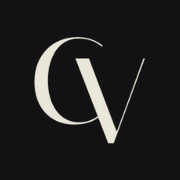
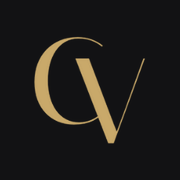
Poe a marca em dourado, com um ouro mais fundo no cabecalho claro
A logo passa a ser dourada no cabeçalho, no rodapé e nos ícones, no lugar do
creme e da tinta escura.

Sobre o fundo escuro vai o ouro da própria marca, `--ouro` #C9A96A, que dá
8,35:1 de contraste — bem acima do mínimo.

Sobre o cabeçalho claro esse mesmo ouro dá 2,15:1 e a marca praticamente
desaparece. Ali entra um ouro mais fundo, #7A5D24, que mantém o matiz e sobe
para 5,88:1. Continua lendo como ouro, não como marrom.

Os ícones (512, 180 e 32px) foram refeitos com o monograma em ouro sobre o
grafite.

Verificado: as três instâncias carregando, o cruzamento entre os dois estados
do cabeçalho, contraste AA aprovado, sem rolagem horizontal de 360 a 1440,
nenhuma imagem quebrada, nada invisível em 3G com CPU 6x mais lenta, sem erros
de JavaScript.

Claude-Session: https://claude.ai/code/session_01ErA6uQs8LKc9Lqw5HZYEAA

diff --git a/site/index.html b/site/index.html
@@ -61,11 +61,14 @@
     <!-- Duas versões da mesma marca: o cabeçalho começa transparente sobre o
          hero escuro e fica claro depois de rolar, então a logo precisa trocar
          de tinta junto. Duas <img> que se cruzam resolvem sem depender de
-         suporte a máscara CSS. -->
+         suporte a máscara CSS.
+         As duas são douradas: o ouro da marca (#C9A96A) sobre o escuro, e um
+         ouro mais fundo sobre o claro — ali o ouro da marca dá só 2,15:1 e
+         não se lê. -->
     <a class="marca" href="#inicio">
-      <img class="marca__logo marca__logo--clara" src="assets/img/logo-clara.png"
+      <img class="marca__logo marca__logo--clara" src="assets/img/logo-ouro.png"
            width="224" height="36" alt="Consuelo Vasconcelos — Cirurgiã-Dentista">
-      <img class="marca__logo marca__logo--escura" src="assets/img/logo-escura.png"
+      <img class="marca__logo marca__logo--escura" src="assets/img/logo-ouro-escuro.png"
            width="224" height="36" alt="" aria-hidden="true">
     </a>
 
@@ -776,7 +779,7 @@
   <div class="wrap rodape__grid">
     <div>
       <a class="marca marca--rodape" href="#inicio">
-        <img class="marca__logo" src="assets/img/logo-clara.png"
+        <img class="marca__logo" src="assets/img/logo-ouro.png"
              width="248" height="40" alt="Consuelo Vasconcelos — Cirurgiã-Dentista">
       </a>
       <p class="rodape__cro"><span data-bind="cro">CRO-SC 25523</span></p>

diff --git a/site/README.md b/site/README.md
@@ -93,7 +93,7 @@ parte das bordas por inundação, então o cabelo interno nunca é alcançado.
 | `consuelo-sobre-*.webp` | "Afinal, quem sou eu?" |
 | `clinica-*.webp` | Seção "A clínica" |
 | `testa-*.webp` | Segundo antes/depois (linhas da testa) |
-| `logo-clara.png` / `logo-escura.png` | A marca. Duas tintas porque o cabeçalho começa transparente sobre o hero escuro e fica claro depois de rolar; as duas se cruzam |
+| `logo-ouro.png` / `logo-ouro-escuro.png` | A marca, dourada. Duas tintas porque o cabeçalho começa transparente sobre o hero escuro e fica claro depois de rolar; as duas se cruzam. O ouro da marca (`#C9A96A`) dá 8,35:1 sobre o escuro mas só 2,15:1 sobre o claro, então ali entra um ouro mais fundo (`#7A5D24`, 5,88:1) |
 | `favicon-*.png`, `apple-touch-icon.png` | Ícones, recortados do monograma da própria marca |
 | `caso-labial-*.webp` | Seção "Resultados" |
 | `og-capa.jpg` | Miniatura no WhatsApp, Instagram e Facebook |
